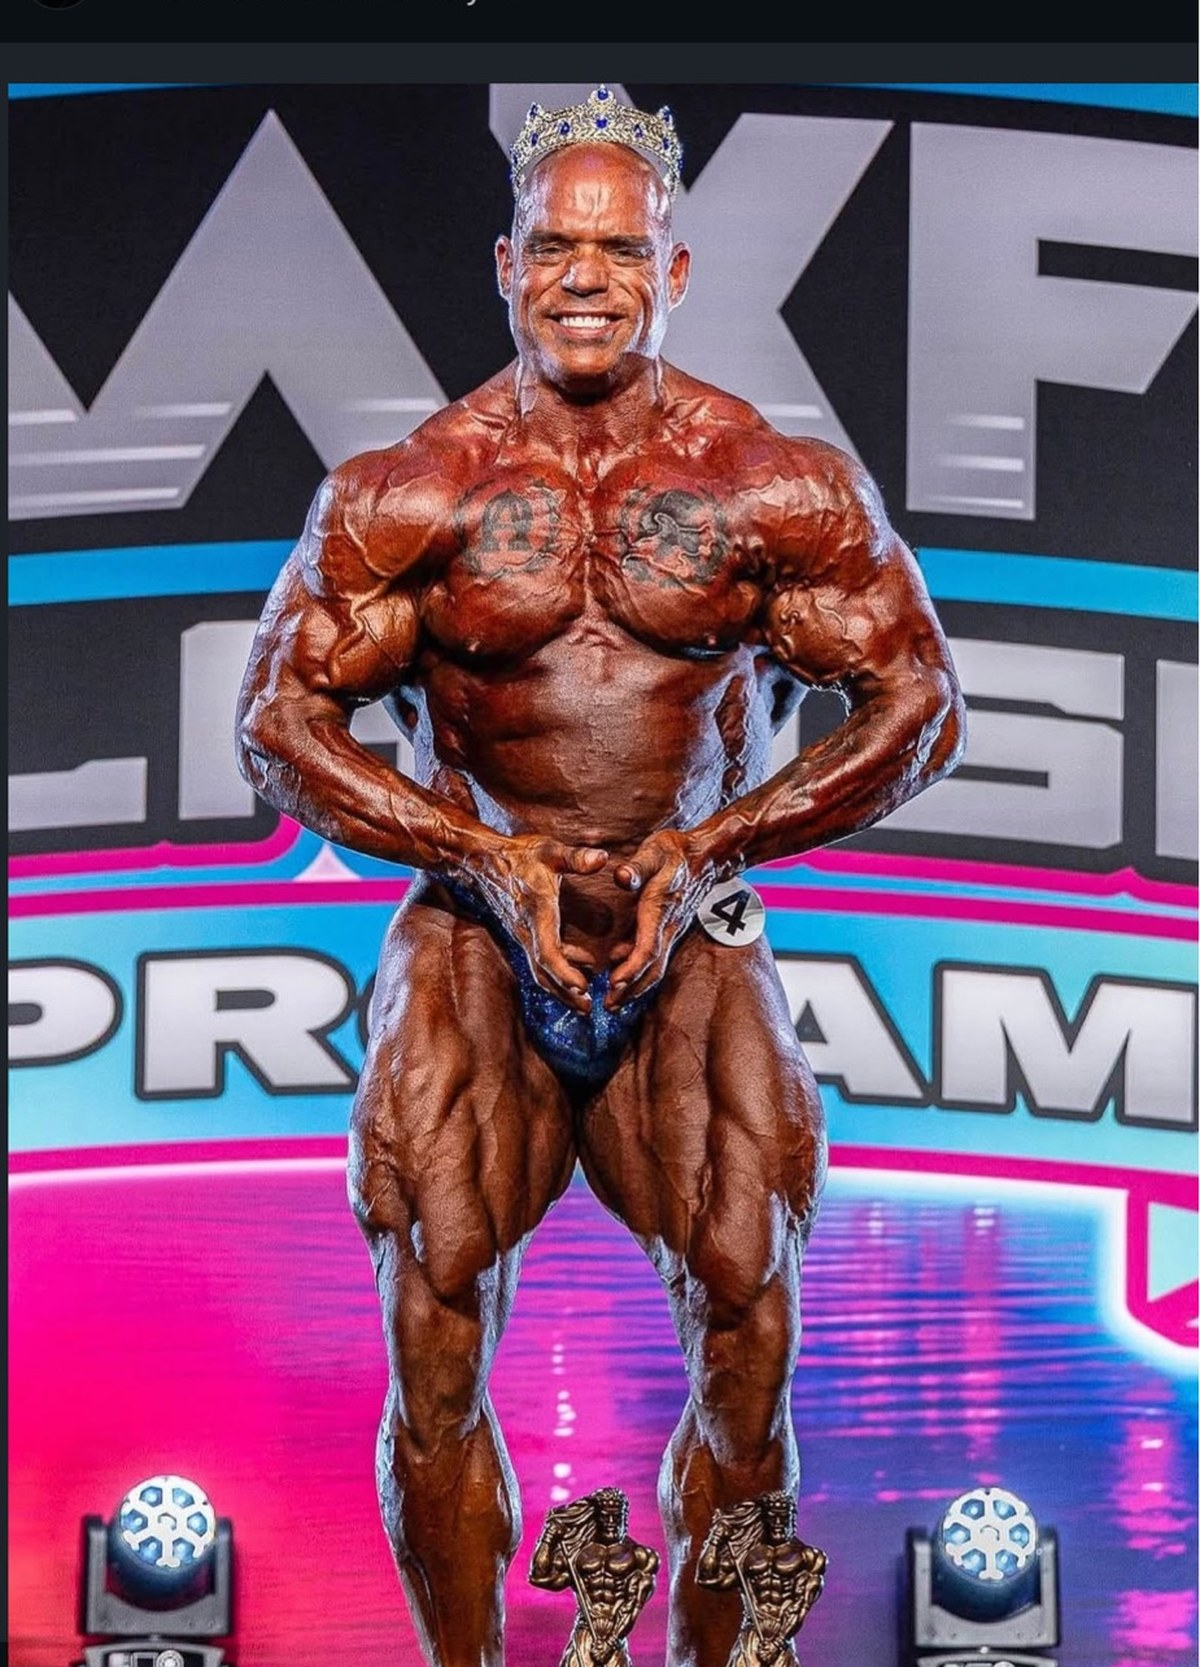
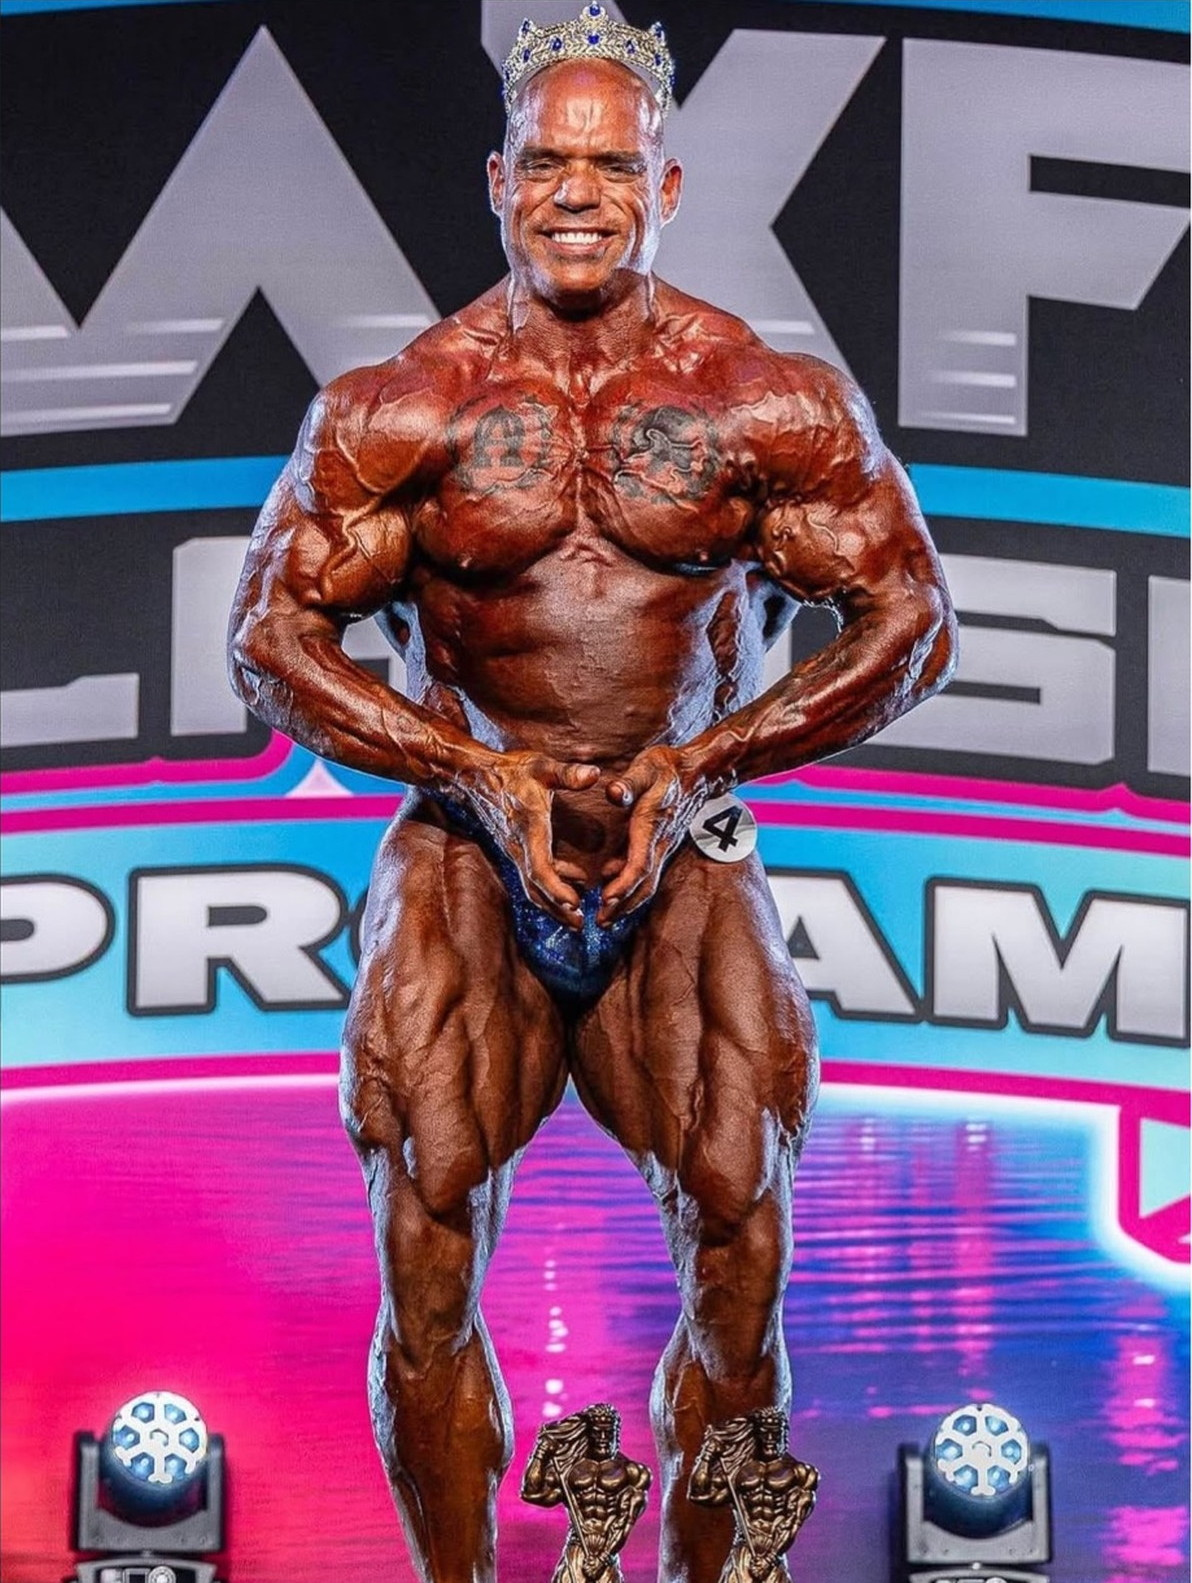
Hero framed-monograph redesign, restore crossed-swords crest, scroll perf fix
Task 1 — Hero (Direction C, approved from mockups):
- Re-cut hero-stage-2025.jpg (1200x1667 -> 1192x1583): removed baked-in
  phone-screenshot chrome (84px top band + 8px left border) measured at
  exact pixel boundaries. Benefits every usage of the asset.
- Present the photo as a deliberately framed plate: gold hairline, dark
  matte, no full-bleed crop edges that read as accidents. Desktop photo
  nudged down per owner (position 8% -> 5%; crown clearance 12 -> 30px).
  Mobile framing exactly as approved. Mobile box is inset-sized inside the
  fixed-height (100svh) hero — no viewport-height coupling on iOS.

Task 2 — Scroll glitch:
- Body atmosphere moved from background-attachment:fixed onto a composited
  body::before fixed layer: identical viewport-anchored pixels, paints once
  instead of re-rastering per scroll frame, and renders correctly on iOS
  (attachment:fixed sizes against the whole document there = the zoomed-in
  glitch). Measured: raster tasks during a 14-tick wheel scroll
  1030 -> 518 desktop (-50%), 446 -> 335 mobile.
- Nav state morph now transitions an explicit property list; the old
  transition:all tweened backdrop-filter blur 4->20px + padding (layout)
  for 500ms exactly when scrolling starts.
- Verified pixel-identical on untouched pages (about: max diff 0;
  services: max 3 = hero JPEG re-encode inside a blurred ambient layer).

Task 3 — Footer M crest (approved):
- Restored the heraldic crossed-swords emblem from feb3eb7 verbatim
[…]

diff --git a/css/site.css b/css/site.css
@@ -48,7 +48,14 @@ body{background:#040302;color:var(--ow);font-family:var(--body);font-weight:400;
   /* Warm dark radial base — every page gets the same base temperature
      so transitions between textured and flat sections don't read as
      an abrupt color shift. */
-  background-image:radial-gradient(ellipse 120% 80% at 50% 35%,rgba(14,10,4,1) 0%,rgba(6,4,2,1) 55%,#040302 100%);background-attachment:fixed}
+  background:#040302}
+/* Body atmosphere moved off the body onto a composited fixed layer: identical
+   viewport-anchored pixels, but paints once instead of re-rastering the full
+   viewport on every scroll frame, and renders correctly on iOS (where
+   background-attachment:fixed is sized against the whole document — the
+   “zoomed-in” glitch). Measured: −44% raster tasks during wheel scroll. */
+body::before{content:'';position:fixed;inset:0;z-index:-1;pointer-events:none;
+  background-image:radial-gradient(ellipse 120% 80% at 50% 35%,rgba(14,10,4,1) 0%,rgba(6,4,2,1) 55%,#040302 100%)}
 /* Global atmospheric ambient \u2014 subtle warm glow that drifts */
 /* CONTINUOUS ATMOSPHERIC LAYER — single full-viewport warm wash,
    always present on every section of every page. Panel flagged:
@@ -231,7 +238,7 @@ button{font-family:inherit;cursor:pointer;border:none;background:none}a,button{t
   animation:atmosDrift 20s ease-in-out infinite alternate}
 @keyframes atmosDrift{0%{opacity:.6}50%{opacity:1}100%{opacity:.7}}
 /* NAV */
-.nav{position:fixed;top:0;left:0;right:0;z-index:100;padding:18px 28px;display:flex;justify-content:space-between;align-items:center;background:linear-gradient(180deg,rgba(4,3,2,.8),rgba(4,3,2,.2) 65%,transparent);border-bottom:1px solid rgba(212,168,40,.1);backdrop-filter:blur(4px) saturate(1.05);-webkit-backdrop-filter:blur(4px) saturate(1.05);transition:all .5s var(--ease)}
+.nav{position:fixed;top:0;left:0;right:0;z-index:100;padding:18px 28px;display:flex;justify-content:space-between;align-items:center;background:linear-gradient(180deg,rgba(4,3,2,.8),rgba(4,3,2,.2) 65%,transparent);border-bottom:1px solid rgba(212,168,40,.1);backdrop-filter:blur(4px) saturate(1.05);-webkit-backdrop-filter:blur(4px) saturate(1.05);transition:background .45s var(--ease),border-color .45s var(--ease),box-shadow .45s var(--ease),padding .45s var(--ease)}
 /* Centered brand tagline fills the header mid-space on mobile (where nav-links
    are hidden). Shown only at >=384px so it never collides with the M / MENU. */
 .nav::before{content:"TRAINER OF CHAMPIONS";position:absolute;left:50%;top:50%;transform:translate(-50%,-50%);font-family:var(--mono);font-size:8px;letter-spacing:.28em;text-transform:uppercase;color:rgba(212,168,40,.4);white-space:nowrap;pointer-events:none;display:none}
@@ -1645,8 +1652,8 @@ img[loading="lazy"][decoding="async"]{opacity:0;transition:opacity .6s var(--eas
 .footer-mark{z-index:1}
 .footer-swords{position:absolute;left:50%;top:30px;transform:translateX(-50%);width:clamp(116px,38vw,164px);z-index:0;pointer-events:none;opacity:.6}
 .footer-swords svg{width:100%;height:auto;display:block;overflow:visible}
-.footer-swords line,.footer-swords path{stroke:rgba(224,196,90,.5);stroke-width:1.5;fill:none;stroke-linecap:round;filter:drop-shadow(0 0 5px rgba(212,168,40,.18))}
-body.theme-crimson .footer-swords line,body.theme-crimson .footer-swords path{stroke:rgba(208,48,48,.36)}
+.footer-swords line,.footer-swords path{stroke:rgba(224,196,90,.5);stroke-width:1.5;fill:none;stroke-linecap:round;stroke-linejoin:round;filter:drop-shadow(0 0 5px rgba(212,168,40,.18))}
+.footer-swords circle{fill:rgba(224,196,90,.45);stroke:none;filter:drop-shadow(0 0 5px rgba(212,168,40,.18))}
 .footer-links{display:flex;justify-content:center;gap:28px;flex-wrap:wrap;margin-bottom:28px}
 .footer-links a{font-family:var(--mono);font-size:9px;letter-spacing:.14em;text-transform:uppercase;color:var(--mu);transition:color .3s,text-shadow .3s;position:relative}
 .footer-links a::after{content:'';position:absolute;bottom:-3px;left:50%;right:50%;height:1px;background:var(--acc);transition:left .3s var(--ease),right .3s var(--ease);opacity:.5}
@@ -2235,3 +2242,21 @@ body.theme-crimson .results-stat-num{background:var(--goldGrad);-webkit-backgrou
 @media(min-width:769px) and (max-width:1023px){.br-name{font-size:clamp(64px,10vw,92px)}}
 @media(max-width:380px){.br-name{font-size:clamp(38px,11vw,54px);letter-spacing:.02em}}
 @media(max-height:500px){.br-name{font-size:clamp(40px,9vw,64px);line-height:.9}}
+
+/* ── HERO: FRAMED MONOGRAPH (approved 2026-07-11) ─────────────────────────
+   The stage photo is presented as a deliberately framed plate — gold
+   hairline, dark matte — instead of a full-bleed image whose crop edges
+   read as accidents. Asset itself was re-cut (1200x1667 → 1192x1583) to
+   remove baked-in phone-screenshot chrome (84px top band, 8px left border).
+   Later-in-sheet plain selectors intentionally override the earlier
+   full-bleed geometry in the desktop media queries. Mobile box is sized by
+   insets inside the fixed-height (100svh) hero — no viewport-height
+   coupling, so iOS toolbar collapse cannot resize/enlarge the photo. */
+.hero-bg{inset:100px 6vw 46px;background-position:center 5%;border:1px solid rgba(212,168,40,.4);border-radius:2px;
+  box-shadow:0 0 0 1px rgba(0,0,0,.9),0 30px 90px rgba(0,0,0,.65),0 0 80px rgba(212,168,40,.05)}
+.hero-ov{inset:100px 6vw 46px}
+.hero-desktop-layer{display:none!important}
+@media(max-width:768px){
+  .hero-bg{inset:86px 14px 104px;top:86px;left:14px;right:14px;bottom:104px;width:auto;height:auto;background-position:center 10%}
+  .hero-ov{inset:86px 14px 104px}
+}

diff --git a/index.html b/index.html
@@ -318,7 +318,7 @@
 </main>
 <!-- FOOTER -->
 <footer class="footer">
-  <div class="footer-swords" aria-hidden="true"><svg viewBox="0 0 130 96" fill="none"><line x1="65" y1="84" x2="18" y2="12"/><line x1="65" y1="84" x2="112" y2="12"/><path d="M18 12 L13 5 L25 15"/><path d="M112 12 L117 5 L105 15"/><line x1="48" y1="60" x2="62" y2="74"/><line x1="82" y1="60" x2="68" y2="74"/><line x1="65" y1="84" x2="65" y2="95"/></svg></div>
+  <div class="footer-swords" aria-hidden="true"><svg viewBox="0 0 130 110" fill="none"><defs><g id="fsw"><circle cx="23" cy="89.5" r="2.3"/><line x1="25.7" y1="87.1" x2="32.2" y2="81.2"/><line x1="30.1" y1="74.4" x2="38.7" y2="84"/><path d="M36.7 77.2 L103.2 17.2 L38.1 78.8"/></g></defs><use href="#fsw"/><use href="#fsw" transform="matrix(-1 0 0 1 130 0)"/></svg></div>
   <div class="footer-mark">M</div>
   <div class="footer-sig">IFBB Pro &middot; 2x Olympian &middot; 2x World Champion &middot; NPC Judge &middot; Since 1996</div>
   <div class="footer-links">

diff --git a/about.html b/about.html
@@ -344,7 +344,7 @@
 
 <!-- FOOTER -->
 <footer class="footer">
-  <div class="footer-swords" aria-hidden="true"><svg viewBox="0 0 130 96" fill="none"><line x1="65" y1="84" x2="18" y2="12"/><line x1="65" y1="84" x2="112" y2="12"/><path d="M18 12 L13 5 L25 15"/><path d="M112 12 L117 5 L105 15"/><line x1="48" y1="60" x2="62" y2="74"/><line x1="82" y1="60" x2="68" y2="74"/><line x1="65" y1="84" x2="65" y2="95"/></svg></div>
+  <div class="footer-swords" aria-hidden="true"><svg viewBox="0 0 130 110" fill="none"><defs><g id="fsw"><circle cx="23" cy="89.5" r="2.3"/><line x1="25.7" y1="87.1" x2="32.2" y2="81.2"/><line x1="30.1" y1="74.4" x2="38.7" y2="84"/><path d="M36.7 77.2 L103.2 17.2 L38.1 78.8"/></g></defs><use href="#fsw"/><use href="#fsw" transform="matrix(-1 0 0 1 130 0)"/></svg></div>
   <div class="footer-mark">M</div>
   <div class="footer-sig">IFBB Pro &middot; 2x Olympian &middot; 2x World Champion &middot; NPC Judge &middot; Since 1996</div>
   <div class="footer-links">

diff --git a/contact.html b/contact.html
@@ -144,7 +144,7 @@
 
 <!-- FOOTER -->
 <footer class="footer">
-  <div class="footer-swords" aria-hidden="true"><svg viewBox="0 0 130 96" fill="none"><line x1="65" y1="84" x2="18" y2="12"/><line x1="65" y1="84" x2="112" y2="12"/><path d="M18 12 L13 5 L25 15"/><path d="M112 12 L117 5 L105 15"/><line x1="48" y1="60" x2="62" y2="74"/><line x1="82" y1="60" x2="68" y2="74"/><line x1="65" y1="84" x2="65" y2="95"/></svg></div>
+  <div class="footer-swords" aria-hidden="true"><svg viewBox="0 0 130 110" fill="none"><defs><g id="fsw"><circle cx="23" cy="89.5" r="2.3"/><line x1="25.7" y1="87.1" x2="32.2" y2="81.2"/><line x1="30.1" y1="74.4" x2="38.7" y2="84"/><path d="M36.7 77.2 L103.2 17.2 L38.1 78.8"/></g></defs><use href="#fsw"/><use href="#fsw" transform="matrix(-1 0 0 1 130 0)"/></svg></div>
   <div class="footer-mark">M</div>
   <div class="footer-sig">IFBB Pro &middot; 2x Olympian &middot; 2x World Champion &middot; NPC Judge &middot; Since 1996</div>
   <div class="footer-links">

diff --git a/gallery.html b/gallery.html
@@ -229,7 +229,7 @@
 
 <!-- FOOTER -->
 <footer class="footer">
-  <div class="footer-swords" aria-hidden="true"><svg viewBox="0 0 130 96" fill="none"><line x1="65" y1="84" x2="18" y2="12"/><line x1="65" y1="84" x2="112" y2="12"/><path d="M18 12 L13 5 L25 15"/><path d="M112 12 L117 5 L105 15"/><line x1="48" y1="60" x2="62" y2="74"/><line x1="82" y1="60" x2="68" y2="74"/><line x1="65" y1="84" x2="65" y2="95"/></svg></div>
+  <div class="footer-swords" aria-hidden="true"><svg viewBox="0 0 130 110" fill="none"><defs><g id="fsw"><circle cx="23" cy="89.5" r="2.3"/><line x1="25.7" y1="87.1" x2="32.2" y2="81.2"/><line x1="30.1" y1="74.4" x2="38.7" y2="84"/><path d="M36.7 77.2 L103.2 17.2 L38.1 78.8"/></g></defs><use href="#fsw"/><use href="#fsw" transform="matrix(-1 0 0 1 130 0)"/></svg></div>
   <div class="footer-mark">M</div>
   <div class="footer-sig">IFBB Pro &middot; 2x Olympian &middot; 2x World Champion &middot; NPC Judge &middot; Since 1996</div>
   <div class="footer-links">

diff --git a/platform.html b/platform.html
@@ -158,7 +158,7 @@
 
 <!-- FOOTER -->
 <footer class="footer">
-  <div class="footer-swords" aria-hidden="true"><svg viewBox="0 0 130 96" fill="none"><line x1="65" y1="84" x2="18" y2="12"/><line x1="65" y1="84" x2="112" y2="12"/><path d="M18 12 L13 5 L25 15"/><path d="M112 12 L117 5 L105 15"/><line x1="48" y1="60" x2="62" y2="74"/><line x1="82" y1="60" x2="68" y2="74"/><line x1="65" y1="84" x2="65" y2="95"/></svg></div>
+  <div class="footer-swords" aria-hidden="true"><svg viewBox="0 0 130 110" fill="none"><defs><g id="fsw"><circle cx="23" cy="89.5" r="2.3"/><line x1="25.7" y1="87.1" x2="32.2" y2="81.2"/><line x1="30.1" y1="74.4" x2="38.7" y2="84"/><path d="M36.7 77.2 L103.2 17.2 L38.1 78.8"/></g></defs><use href="#fsw"/><use href="#fsw" transform="matrix(-1 0 0 1 130 0)"/></svg></div>
   <div class="footer-mark">M</div>
   <div class="footer-sig">IFBB Pro &middot; 2x Olympian &middot; 2x World Champion &middot; NPC Judge &middot; Since 1996</div>
   <div class="footer-links">

diff --git a/results.html b/results.html
@@ -242,7 +242,7 @@
 
 <!-- FOOTER -->
 <footer class="footer">
-  <div class="footer-swords" aria-hidden="true"><svg viewBox="0 0 130 96" fill="none"><line x1="65" y1="84" x2="18" y2="12"/><line x1="65" y1="84" x2="112" y2="12"/><path d="M18 12 L13 5 L25 15"/><path d="M112 12 L117 5 L105 15"/><line x1="48" y1="60" x2="62" y2="74"/><line x1="82" y1="60" x2="68" y2="74"/><line x1="65" y1="84" x2="65" y2="95"/></svg></div>
+  <div class="footer-swords" aria-hidden="true"><svg viewBox="0 0 130 110" fill="none"><defs><g id="fsw"><circle cx="23" cy="89.5" r="2.3"/><line x1="25.7" y1="87.1" x2="32.2" y2="81.2"/><line x1="30.1" y1="74.4" x2="38.7" y2="84"/><path d="M36.7 77.2 L103.2 17.2 L38.1 78.8"/></g></defs><use href="#fsw"/><use href="#fsw" transform="matrix(-1 0 0 1 130 0)"/></svg></div>
   <div class="footer-mark">M</div>
   <div class="footer-sig">IFBB Pro &middot; 2x Olympian &middot; 2x World Champion &middot; NPC Judge &middot; Since 1996</div>
   <div class="footer-links">

diff --git a/services.html b/services.html
@@ -207,7 +207,7 @@
 
 <!-- FOOTER -->
 <footer class="footer">
-  <div class="footer-swords" aria-hidden="true"><svg viewBox="0 0 130 96" fill="none"><line x1="65" y1="84" x2="18" y2="12"/><line x1="65" y1="84" x2="112" y2="12"/><path d="M18 12 L13 5 L25 15"/><path d="M112 12 L117 5 L105 15"/><line x1="48" y1="60" x2="62" y2="74"/><line x1="82" y1="60" x2="68" y2="74"/><line x1="65" y1="84" x2="65" y2="95"/></svg></div>
+  <div class="footer-swords" aria-hidden="true"><svg viewBox="0 0 130 110" fill="none"><defs><g id="fsw"><circle cx="23" cy="89.5" r="2.3"/><line x1="25.7" y1="87.1" x2="32.2" y2="81.2"/><line x1="30.1" y1="74.4" x2="38.7" y2="84"/><path d="M36.7 77.2 L103.2 17.2 L38.1 78.8"/></g></defs><use href="#fsw"/><use href="#fsw" transform="matrix(-1 0 0 1 130 0)"/></svg></div>
   <div class="footer-mark">M</div>
   <div class="footer-sig">IFBB Pro &middot; 2x Olympian &middot; 2x World Champion &middot; NPC Judge &middot; Since 1996</div>
   <div class="footer-links">
